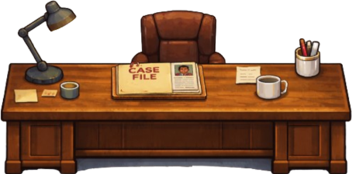
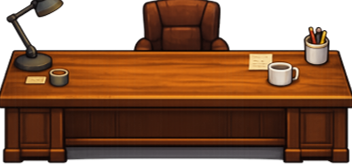
fix image of desk in police stsation

diff --git a/dialogue_system.md b/dialogue_system.md
@@ -1,0 +1,141 @@
+# Dialogue System, How It Works
+
+## Overview
+
+All dialogue content lives in `data/chief_hints.json`. The system has two separate
+loading paths depending on whether the content is a simple one-line hint or a
+multi-line conversation between characters.
+
+---
+
+## `chief_hints.json` structure
+
+```
+{
+  "_meta": { ... },           // ignored at runtime
+  "object_hint":   { key: string },         // one line per interactable object
+  "npc_greeting":  { key: string },         // one line shown when near an NPC
+  "suspect_reaction": {                     // multi-line conversations
+      "tweed_thread_to_marcus": [
+          {"speaker": "marcus", "text": "..."},
+          {"speaker": "chief",  "text": "..."}
+      ],
+      ...
+  },
+  "room_unlocks_hint": { key: string },     // one line shown when a room unlocks
+  "ending":            { key: string }      // one line per ending outcome
+}
+```
+
+Suspect reaction keys follow the pattern `{evidence_name}_to_{npc_name}`, e.g.
+`master_key_log_to_victor`. The helper `make_dialogue_key(evidence, npc)` in
+`classes/dialogue.py` builds these strings.
+
+Some entries (introductions, waiter testimony) do not follow the `_to_` pattern
+and are called directly by name: `marcus_introduction`, `victor_introduction`,
+`lena_introduction`, `waiter_testimony`.
+
+---
+
+## Path 1, Simple one-line hints (`ChiefOfPoliceHint`)
+
+**File:** `classes/chief_of_police_hint.py`
+
+`ChiefOfPoliceHint.load_hints()` is called once at startup. It reads the JSON
+and stores three sections as plain `dict[str, str]`:
+
+| Attribute | JSON key | Usage |
+|---|---|---|
+| `self.object_hints` | `"object_hint"` | shown when player is near an object |
+| `self.npc_greetings` | `"npc_greeting"` | shown when player is near an NPC |
+| `self.room_unlocks_hints` | `"room_unlocks_hint"` | shown when a locked room opens |
+
+Lookup is a direct dict key access, e.g. `self.object_hints["master_key_log"]`
+returns the hint string immediately. The `suspect_reaction` and `ending` sections
+are **not** loaded here.
+
+The hint string is then passed to `set_hint()`, which stores it in
+`self.current_hint`. The `draw()` method renders `self.current_hint` into the
+HUD panel every frame, word-wrapping it to fit the panel width.
+
+---
+
+## Path 2, Multi-line conversations (`DialogueTree`)
+
+**Files:** `classes/dialogue.py`, `game.py`
+
+### Data structure
+
+Each `suspect_reaction` entry is a flat list of `{speaker, text}` dicts.
+`build_linear_tree()` converts this list into a **singly-linked list** of
+`DialogueNode` objects:
+
+```
+DialogueNode  (speaker, text, children=[next])
+  └── DialogueNode  (speaker, text, children=[next])
+        └── DialogueNode  (speaker, text, children=[])  ← leaf = end of dialogue
+```
+
+Although `children` is a list (allowing branching in theory), `build_linear_tree`
+always adds exactly one child per node. `advance()` always follows `children[0]`.
+In practice this is a linked list, not a tree. The `required_evidence` field on
+each node is also unused, it is a stub for future branching that was never
+implemented.
+
+### Loading
+
+`load_dialogue_from_json(dialogue_key)` in `classes/dialogue.py`:
+1. Opens `data/chief_hints.json` and parses it with `json.load()`.
+2. Looks up `dialogue_key` inside the `"suspect_reaction"` section.
+3. Passes the resulting list to `build_linear_tree()` and returns a `DialogueTree`.
+4. Returns `None` if the file is missing, the JSON is invalid, or the key does
+   not exist (the caller in `game.py` shows a fallback message in that case).
+
+The file is re-opened from disk on every call (no caching).
+
+### Two triggers in `game.py`
+
+**1. Player drops evidence on an NPC**, `try_start_dialogue(drop_pos)`
+
+```
+player drags evidence → drops on NPC rect
+  → make_dialogue_key(evidence_name, npc_name)  →  e.g. "master_key_log_to_victor"
+  → load_dialogue_from_json(key)
+  → store tree in self.active_dialogue
+  → show first node in HUD panel
+```
+
+**2. Player presses E next to an NPC**, `start_npc_dialogue(dialogue_key)`
+
+Calls `load_dialogue_from_json` directly with a hardcoded key
+(`"marcus_introduction"`, `"victor_introduction"`, etc.).
+
+### Advancing through the dialogue
+
+While `self.active_dialogue is not None`, the game loop is frozen (player cannot
+move). Each press of Space calls `active_dialogue.advance()`:
+
+- If a next node exists → update the HUD panel with the new speaker and text.
+- If no next node (leaf reached) → set `self.active_dialogue = None`, unfreeze
+  the game, hide the `[SPACE]` hint.
+
+The HUD panel shows `[SPACE] to continue` or `[SPACE] to close` depending on
+whether `is_finished()` is true.
+
+---
+
+## Speaker display
+
+Both paths resolve the speaker key to a human-readable title and colour via two
+dicts in `classes/chief_of_police_hint.py`:
+
+```python
+SPEAKER_TITLES  = { "chief": "CHIEF OF POLICE", "marcus": "MARCUS HALE", ... }
+SPEAKER_COLOURS = { "chief": (120,180,230), "marcus": (220,110,90), ... }
+```
+
+`set_speaker(speaker_key)` updates the panel title, accent colour, and portrait
+sprite in one call. Portraits are loaded from `assets/hud/` at startup and
+stored in `self.portraits` keyed by speaker name. Missing portrait files are
+skipped silently; `"officer"` is the fallback for `chief`, `detective`, and any
+unknown speaker.
